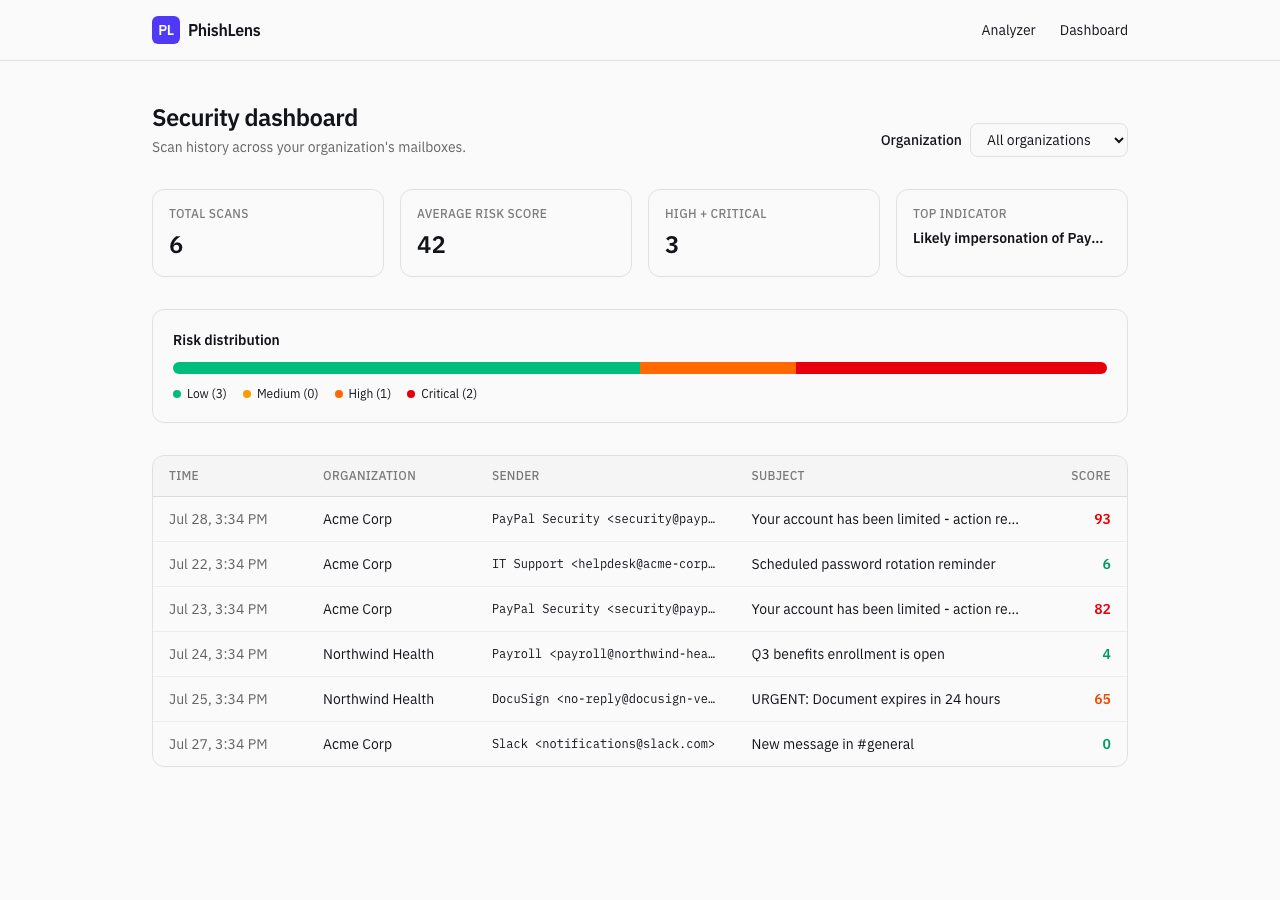
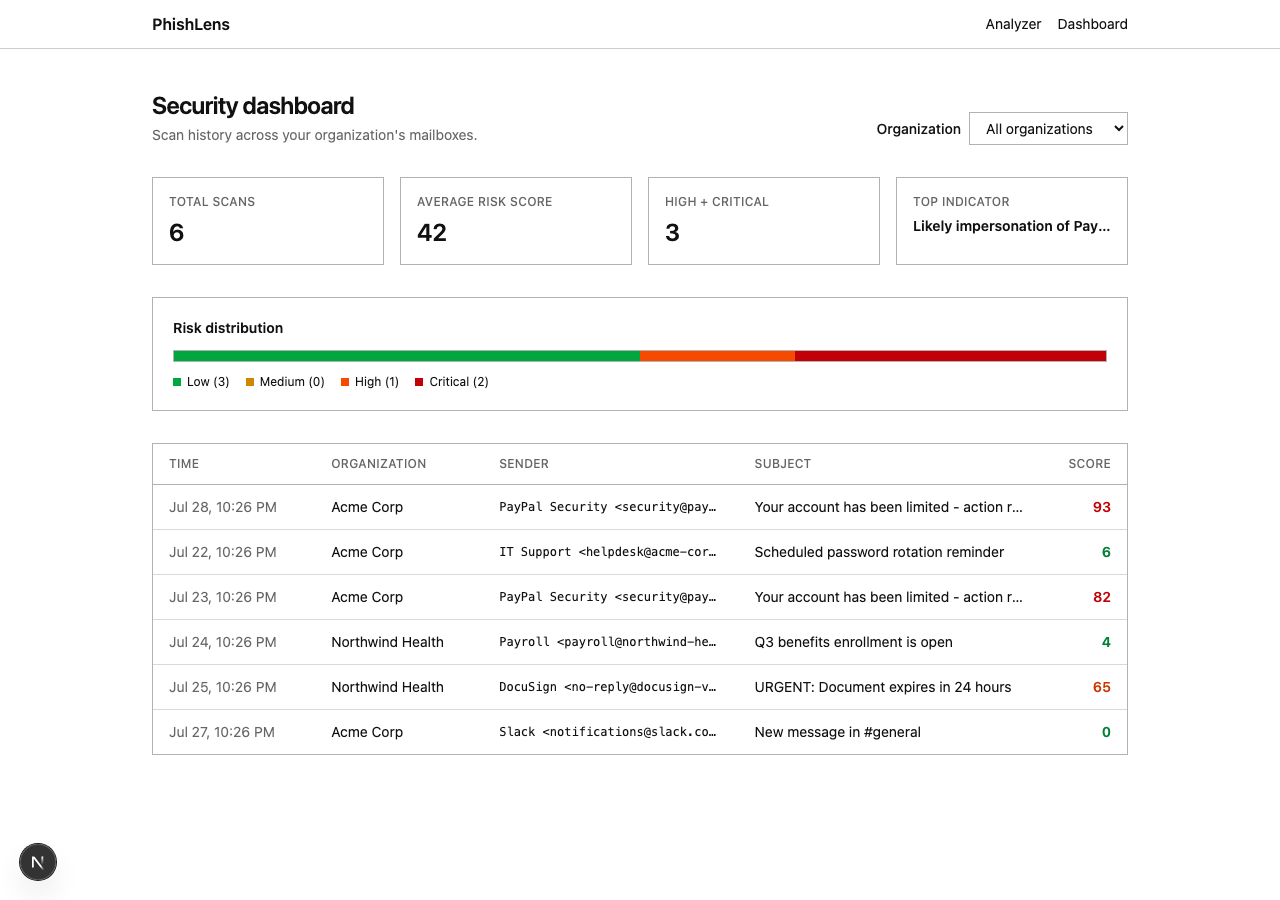
strip the css

diff --git a/src/components/AnalyzerForm.tsx b/src/components/AnalyzerForm.tsx
@@ -70,7 +70,7 @@ export function AnalyzerForm() {
               key={s.key}
               type="button"
               onClick={() => loadSample(s.key)}
-              className="rounded-full border border-black/10 px-3 py-1.5 text-xs font-medium text-black/70 transition hover:border-indigo-500 hover:text-indigo-600 dark:border-white/15 dark:text-white/70 dark:hover:text-indigo-400"
+              className="border border-black/30 px-3 py-1.5 text-xs font-medium hover:bg-black/5 dark:border-white/30 dark:hover:bg-white/10"
             >
               {s.label}
             </button>
@@ -83,7 +83,7 @@ export function AnalyzerForm() {
             value={org}
             onChange={(e) => setOrg(e.target.value)}
             placeholder="Acme Corp"
-            className="rounded-lg border border-black/10 bg-transparent px-3 py-2 outline-none focus:border-indigo-500 dark:border-white/15"
+            className="border border-black/30 bg-transparent px-3 py-2 outline-none focus:border-black dark:border-white/30 dark:focus:border-white"
           />
         </label>
 
@@ -93,7 +93,7 @@ export function AnalyzerForm() {
             value={sender}
             onChange={(e) => setSender(e.target.value)}
             placeholder="Display Name <address@domain.com>"
-            className="rounded-lg border border-black/10 bg-transparent px-3 py-2 outline-none focus:border-indigo-500 dark:border-white/15"
+            className="border border-black/30 bg-transparent px-3 py-2 outline-none focus:border-black dark:border-white/30 dark:focus:border-white"
           />
         </label>
 
@@ -103,7 +103,7 @@ export function AnalyzerForm() {
             value={subject}
             onChange={(e) => setSubject(e.target.value)}
             placeholder="Email subject line"
-            className="rounded-lg border border-black/10 bg-transparent px-3 py-2 outline-none focus:border-indigo-500 dark:border-white/15"
+            className="border border-black/30 bg-transparent px-3 py-2 outline-none focus:border-black dark:border-white/30 dark:focus:border-white"
           />
         </label>
 
@@ -115,66 +115,62 @@ export function AnalyzerForm() {
             required
             rows={10}
             placeholder="Paste the full email or message text here..."
-            className="rounded-lg border border-black/10 bg-transparent px-3 py-2 font-mono text-xs outline-none focus:border-indigo-500 dark:border-white/15"
+            className="border border-black/30 bg-transparent px-3 py-2 font-mono text-xs outline-none focus:border-black dark:border-white/30 dark:focus:border-white"
           />
         </label>
 
         <button
           type="submit"
           disabled={loading}
-          className="rounded-lg bg-indigo-600 px-4 py-2.5 font-medium text-white transition hover:bg-indigo-500 disabled:opacity-50"
+          className="border border-black bg-black px-4 py-2.5 font-medium text-white hover:bg-black/80 disabled:opacity-50 dark:border-white dark:bg-white dark:text-black dark:hover:bg-white/80"
         >
           {loading ? "Analyzing…" : "Analyze message"}
         </button>
-        {error && <p className="text-sm text-red-600 dark:text-red-400">{error}</p>}
+        {error && <p className="text-sm text-red-700 dark:text-red-400">{error}</p>}
       </form>
 
       <div className="flex flex-col gap-4">
         {!data && (
-          <div className="flex h-full min-h-72 flex-col items-center justify-center rounded-xl border border-dashed border-black/15 p-8 text-center text-sm text-black/50 dark:border-white/15 dark:text-white/50">
+          <div className="flex h-full min-h-72 flex-col items-center justify-center border border-dashed border-black/30 p-8 text-center text-sm text-black/60 dark:border-white/30 dark:text-white/60">
             Paste a message (or load a sample) and click Analyze to see the risk breakdown.
           </div>
         )}
 
         {data && (
           <>
-            <div className="flex items-center justify-center rounded-xl border border-black/10 p-6 dark:border-white/10">
+            <div className="flex items-center justify-center border border-black/30 p-6 dark:border-white/30">
               <RiskGauge score={data.result.score} level={data.result.level} />
             </div>
 
             {data.aiExplanation && (
-              <div className="rounded-xl border border-indigo-500/30 bg-indigo-500/5 p-4">
-                <p className="mb-1 text-xs font-semibold uppercase tracking-wide text-indigo-600 dark:text-indigo-400">
-                  AI summary
-                </p>
-                <p className="whitespace-pre-line text-sm text-black/80 dark:text-white/80">
-                  {data.aiExplanation}
-                </p>
+              <div className="border border-black/30 p-4 dark:border-white/30">
+                <p className="mb-1 text-xs font-semibold uppercase tracking-wide">AI summary</p>
+                <p className="whitespace-pre-line text-sm">{data.aiExplanation}</p>
               </div>
             )}
 
             {(data.aiStatus === "timeout" || data.aiStatus === "error") && (
-              <p className="text-xs text-black/40 dark:text-white/40">
+              <p className="text-xs text-black/50 dark:text-white/50">
                 AI summary unavailable ({data.aiStatus === "timeout" ? "request timed out" : "service error"}) —
                 showing heuristic results only.
               </p>
             )}
 
-            <div className="rounded-xl border border-black/10 dark:border-white/10">
-              <p className="border-b border-black/10 px-4 py-3 text-sm font-semibold dark:border-white/10">
+            <div className="border border-black/30 dark:border-white/30">
+              <p className="border-b border-black/30 px-4 py-3 text-sm font-semibold dark:border-white/30">
                 Detected indicators {data.result.indicators.length === 0 && "— none"}
               </p>
-              <ul className="divide-y divide-black/5 dark:divide-white/5">
+              <ul className="divide-y divide-black/15 dark:divide-white/15">
                 {data.result.indicators.map((ind) => (
                   <li key={ind.id} className="flex items-start gap-3 px-4 py-3">
-                    <span className="mt-0.5 shrink-0 rounded-full bg-black/5 px-2 py-0.5 text-[11px] font-medium text-black/60 dark:bg-white/10 dark:text-white/60">
+                    <span className="mt-0.5 shrink-0 border border-black/30 px-1.5 py-0.5 text-[11px] font-medium dark:border-white/30">
                       {CATEGORY_LABEL[ind.category]}
                     </span>
                     <div className="text-sm">
                       <p className="font-medium">{ind.label}</p>
                       <p className="text-black/60 dark:text-white/60">{ind.detail}</p>
                     </div>
-                    <span className="ml-auto shrink-0 text-xs font-semibold text-black/40 dark:text-white/40">
+                    <span className="ml-auto shrink-0 text-xs font-semibold text-black/50 dark:text-white/50">
                       +{ind.weight}
                     </span>
                   </li>
@@ -183,7 +179,7 @@ export function AnalyzerForm() {
             </div>
 
             {data.result.urls.length > 0 && (
-              <div className="rounded-xl border border-black/10 p-4 dark:border-white/10">
+              <div className="border border-black/30 p-4 dark:border-white/30">
                 <p className="mb-2 text-sm font-semibold">Extracted links</p>
                 <ul className="space-y-1 font-mono text-xs text-black/60 dark:text-white/60">
                   {data.result.urls.map((u) => (

diff --git a/src/app/dashboard/page.tsx b/src/app/dashboard/page.tsx
@@ -6,18 +6,18 @@ import type { ScanRecord } from "@/lib/store";
 
 const LEVEL_ORDER = ["Low", "Medium", "High", "Critical"] as const;
 
-const LEVEL_DOT: Record<string, string> = {
-  Low: "bg-emerald-500",
-  Medium: "bg-amber-500",
-  High: "bg-orange-500",
-  Critical: "bg-red-600",
+const LEVEL_COLOR: Record<string, string> = {
+  Low: "bg-green-600",
+  Medium: "bg-yellow-600",
+  High: "bg-orange-600",
+  Critical: "bg-red-700",
 };
 
 const LEVEL_TEXT: Record<string, string> = {
-  Low: "text-emerald-600 dark:text-emerald-400",
-  Medium: "text-amber-600 dark:text-amber-400",
-  High: "text-orange-600 dark:text-orange-400",
-  Critical: "text-red-600 dark:text-red-400",
+  Low: "text-green-700 dark:text-green-400",
+  Medium: "text-yellow-700 dark:text-yellow-400",
+  High: "text-orange-700 dark:text-orange-400",
+  Critical: "text-red-700 dark:text-red-400",
 };
 
 export default function Dashboard() {
@@ -68,7 +68,7 @@ export default function Dashboard() {
             <select
               value={org}
               onChange={(e) => setOrg(e.target.value)}
-              className="rounded-lg border border-black/10 bg-transparent px-3 py-1.5 outline-none focus:border-indigo-500 dark:border-white/15"
+              className="border border-black/30 bg-transparent px-3 py-1.5 outline-none focus:border-black dark:border-white/30 dark:focus:border-white"
             >
               <option value="All">All organizations</option>
               {orgs.map((o) => (
@@ -90,30 +90,30 @@ export default function Dashboard() {
           <StatTile label="Top indicator" value={stats.topIndicator?.[0] ?? "—"} small />
         </div>
 
-        <div className="mb-8 rounded-xl border border-black/10 p-5 dark:border-white/10">
+        <div className="mb-8 border border-black/30 p-5 dark:border-white/30">
           <p className="mb-3 text-sm font-semibold">Risk distribution</p>
-          <div className="flex h-3 w-full overflow-hidden rounded-full bg-black/5 dark:bg-white/10">
+          <div className="flex h-3 w-full overflow-hidden border border-black/30 dark:border-white/30">
             {LEVEL_ORDER.map((level) => {
               const count = stats.byLevel[level] ?? 0;
               const pct = stats.total ? (count / stats.total) * 100 : 0;
               return pct > 0 ? (
-                <div key={level} className={LEVEL_DOT[level]} style={{ width: `${pct}%` }} />
+                <div key={level} className={LEVEL_COLOR[level]} style={{ width: `${pct}%` }} />
               ) : null;
             })}
           </div>
           <div className="mt-3 flex flex-wrap gap-4 text-xs">
             {LEVEL_ORDER.map((level) => (
               <span key={level} className="flex items-center gap-1.5">
-                <span className={`h-2 w-2 rounded-full ${LEVEL_DOT[level]}`} />
+                <span className={`h-2 w-2 ${LEVEL_COLOR[level]}`} />
                 {level} ({stats.byLevel[level] ?? 0})
               </span>
             ))}
           </div>
         </div>
 
-        <div className="overflow-hidden rounded-xl border border-black/10 dark:border-white/10">
+        <div className="overflow-hidden border border-black/30 dark:border-white/30">
           <table className="w-full text-sm">
-            <thead className="border-b border-black/10 bg-black/[0.02] text-left text-xs uppercase tracking-wide text-black/50 dark:border-white/10 dark:bg-white/[0.02] dark:text-white/50">
+            <thead className="border-b border-black/30 text-left text-xs uppercase tracking-wide text-black/60 dark:border-white/30 dark:text-white/60">
               <tr>
                 <th className="px-4 py-3 font-medium">Time</th>
                 <th className="px-4 py-3 font-medium">Organization</th>
@@ -122,7 +122,7 @@ export default function Dashboard() {
                 <th className="px-4 py-3 font-medium text-right">Score</th>
               </tr>
             </thead>
-            <tbody className="divide-y divide-black/5 dark:divide-white/5">
+            <tbody className="divide-y divide-black/15 dark:divide-white/15">
               {loading && (
                 <tr>
                   <td colSpan={5} className="px-4 py-6 text-center text-black/50 dark:text-white/50">
@@ -165,8 +165,8 @@ export default function Dashboard() {
 
 function StatTile({ label, value, small }: { label: string; value: string; small?: boolean }) {
   return (
-    <div className="rounded-xl border border-black/10 p-4 dark:border-white/10">
-      <p className="text-xs font-medium uppercase tracking-wide text-black/50 dark:text-white/50">{label}</p>
+    <div className="border border-black/30 p-4 dark:border-white/30">
+      <p className="text-xs font-medium uppercase tracking-wide text-black/60 dark:text-white/60">{label}</p>
       <p className={`mt-1.5 font-semibold ${small ? "truncate text-sm" : "text-2xl"}`}>{value}</p>
     </div>
   );

diff --git a/src/components/RiskGauge.tsx b/src/components/RiskGauge.tsx
@@ -1,41 +1,20 @@
-const LEVEL_STYLES: Record<string, { ring: string; text: string; bg: string }> = {
-  Low: { ring: "stroke-emerald-500", text: "text-emerald-600 dark:text-emerald-400", bg: "bg-emerald-500/10" },
-  Medium: { ring: "stroke-amber-500", text: "text-amber-600 dark:text-amber-400", bg: "bg-amber-500/10" },
-  High: { ring: "stroke-orange-500", text: "text-orange-600 dark:text-orange-400", bg: "bg-orange-500/10" },
-  Critical: { ring: "stroke-red-600", text: "text-red-600 dark:text-red-400", bg: "bg-red-500/10" },
+const LEVEL_TEXT: Record<string, string> = {
+  Low: "text-green-700 dark:text-green-400",
+  Medium: "text-yellow-700 dark:text-yellow-400",
+  High: "text-orange-700 dark:text-orange-400",
+  Critical: "text-red-700 dark:text-red-400",
 };
 
 export function RiskGauge({ score, level }: { score: number; level: string }) {
-  const style = LEVEL_STYLES[level] ?? LEVEL_STYLES.Low;
-  const radius = 54;
-  const circumference = 2 * Math.PI * radius;
-  const offset = circumference - (score / 100) * circumference;
+  const color = LEVEL_TEXT[level] ?? LEVEL_TEXT.Low;
 
   return (
-    <div className="flex flex-col items-center gap-3">
-      <div className="relative h-36 w-36">
-        <svg className="h-full w-full -rotate-90" viewBox="0 0 128 128">
-          <circle cx="64" cy="64" r={radius} strokeWidth="10" fill="none" className="stroke-black/10 dark:stroke-white/10" />
-          <circle
-            cx="64"
-            cy="64"
-            r={radius}
-            strokeWidth="10"
-            fill="none"
-            strokeLinecap="round"
-            strokeDasharray={circumference}
-            strokeDashoffset={offset}
-            className={`${style.ring} transition-[stroke-dashoffset] duration-500 ease-out`}
-          />
-        </svg>
-        <div className="absolute inset-0 flex flex-col items-center justify-center">
-          <span className="text-3xl font-bold">{score}</span>
-          <span className="text-xs text-black/50 dark:text-white/50">/ 100</span>
-        </div>
-      </div>
-      <span className={`rounded-full px-3 py-1 text-sm font-medium ${style.bg} ${style.text}`}>
-        {level} risk
+    <div className="flex flex-col items-center gap-1">
+      <span className={`text-4xl font-bold ${color}`}>
+        {score}
+        <span className="text-lg font-normal text-black/50 dark:text-white/50"> / 100</span>
       </span>
+      <span className={`text-sm font-medium uppercase tracking-wide ${color}`}>{level} risk</span>
     </div>
   );
 }

diff --git a/src/components/Nav.tsx b/src/components/Nav.tsx
@@ -2,19 +2,16 @@ import Link from "next/link";
 
 export function Nav() {
   return (
-    <header className="border-b border-black/10 dark:border-white/10">
-      <div className="mx-auto flex max-w-5xl items-center justify-between px-6 py-4">
-        <Link href="/" className="flex items-center gap-2 font-semibold tracking-tight">
-          <span className="flex h-7 w-7 items-center justify-center rounded-md bg-indigo-600 text-sm text-white">
-            PL
-          </span>
-          <span>PhishLens</span>
+    <header className="border-b border-black/20 dark:border-white/20">
+      <div className="mx-auto flex max-w-5xl items-center justify-between px-6 py-3">
+        <Link href="/" className="font-semibold">
+          PhishLens
         </Link>
-        <nav className="flex items-center gap-6 text-sm">
-          <Link href="/" className="hover:text-indigo-500">
+        <nav className="flex items-center gap-4 text-sm">
+          <Link href="/" className="underline-offset-2 hover:underline">
             Analyzer
           </Link>
-          <Link href="/dashboard" className="hover:text-indigo-500">
+          <Link href="/dashboard" className="underline-offset-2 hover:underline">
             Dashboard
           </Link>
         </nav>

diff --git a/src/app/layout.tsx b/src/app/layout.tsx
@@ -1,18 +1,5 @@
 import type { Metadata } from "next";
-import { IBM_Plex_Sans, IBM_Plex_Mono } from "next/font/google";
 import "./globals.css";
-
-const plexSans = IBM_Plex_Sans({
-  variable: "--font-plex-sans",
-  weight: ["400", "500", "600", "700"],
-  subsets: ["latin"],
-});
-
-const plexMono = IBM_Plex_Mono({
-  variable: "--font-plex-mono",
-  weight: ["400", "500", "600"],
-  subsets: ["latin"],
-});
 
 export const metadata: Metadata = {
   title: "PhishLens — Phishing & Social Engineering Detector",
@@ -25,10 +12,7 @@ export default function RootLayout({
   children: React.ReactNode;
 }>) {
   return (
-    <html
-      lang="en"
-      className={`${plexSans.variable} ${plexMono.variable} h-full antialiased`}
-    >
+    <html lang="en" className="h-full">
       <body className="min-h-full flex flex-col font-sans">{children}</body>
     </html>
   );

diff --git a/src/app/globals.css b/src/app/globals.css
@@ -1,21 +1,19 @@
 @import "tailwindcss";
 
 :root {
-  --background: #fafafa;
-  --foreground: #12141a;
+  --background: #ffffff;
+  --foreground: #111111;
 }
 
 @theme inline {
   --color-background: var(--background);
   --color-foreground: var(--foreground);
-  --font-sans: var(--font-plex-sans);
-  --font-mono: var(--font-plex-mono);
 }
 
 @media (prefers-color-scheme: dark) {
   :root {
-    --background: #0b0d12;
-    --foreground: #e8eaf0;
+    --background: #111111;
+    --foreground: #eaeaea;
   }
 }
 
